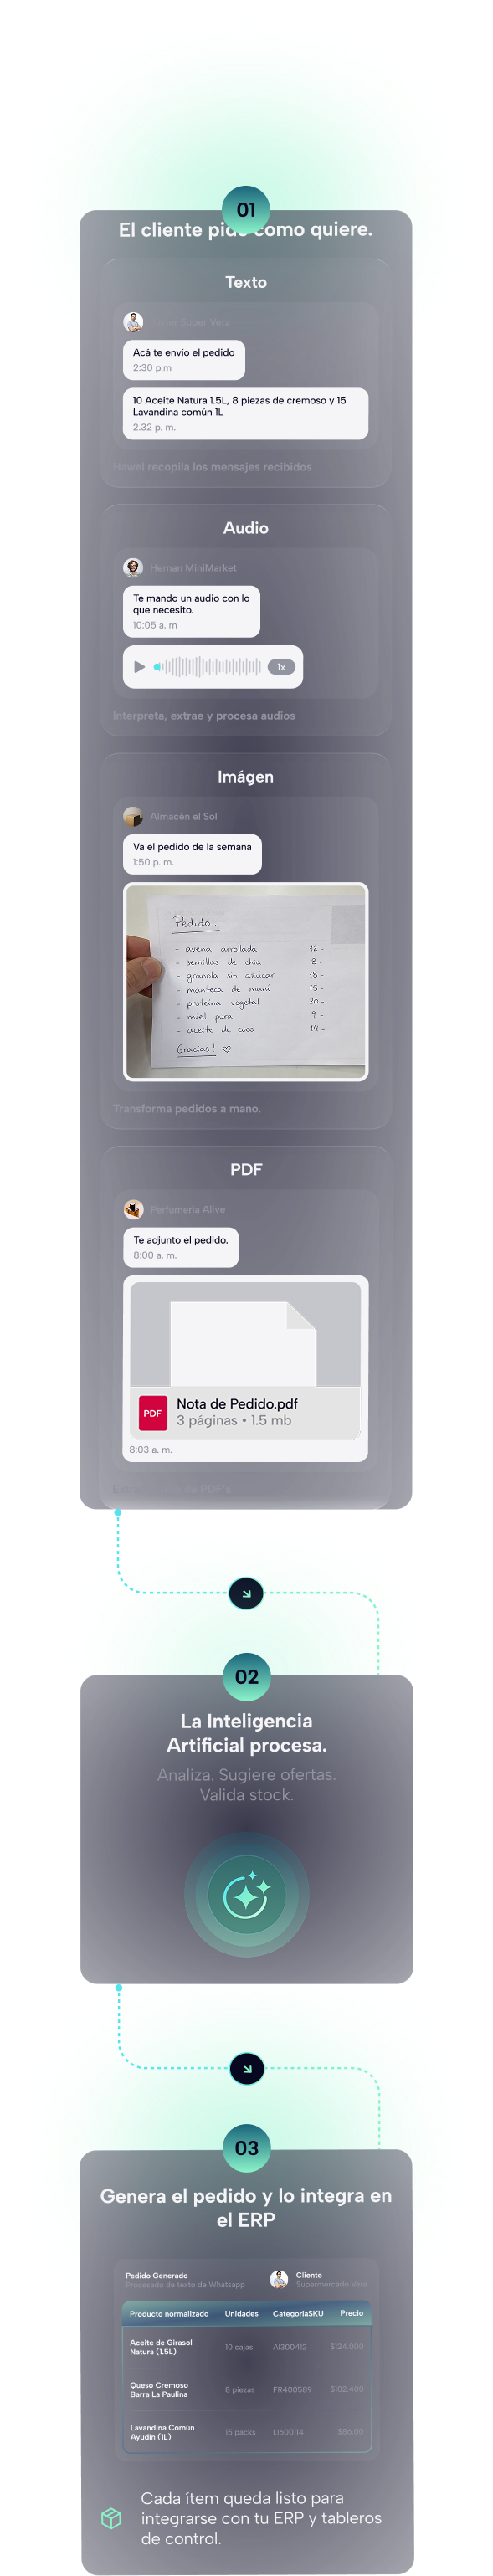
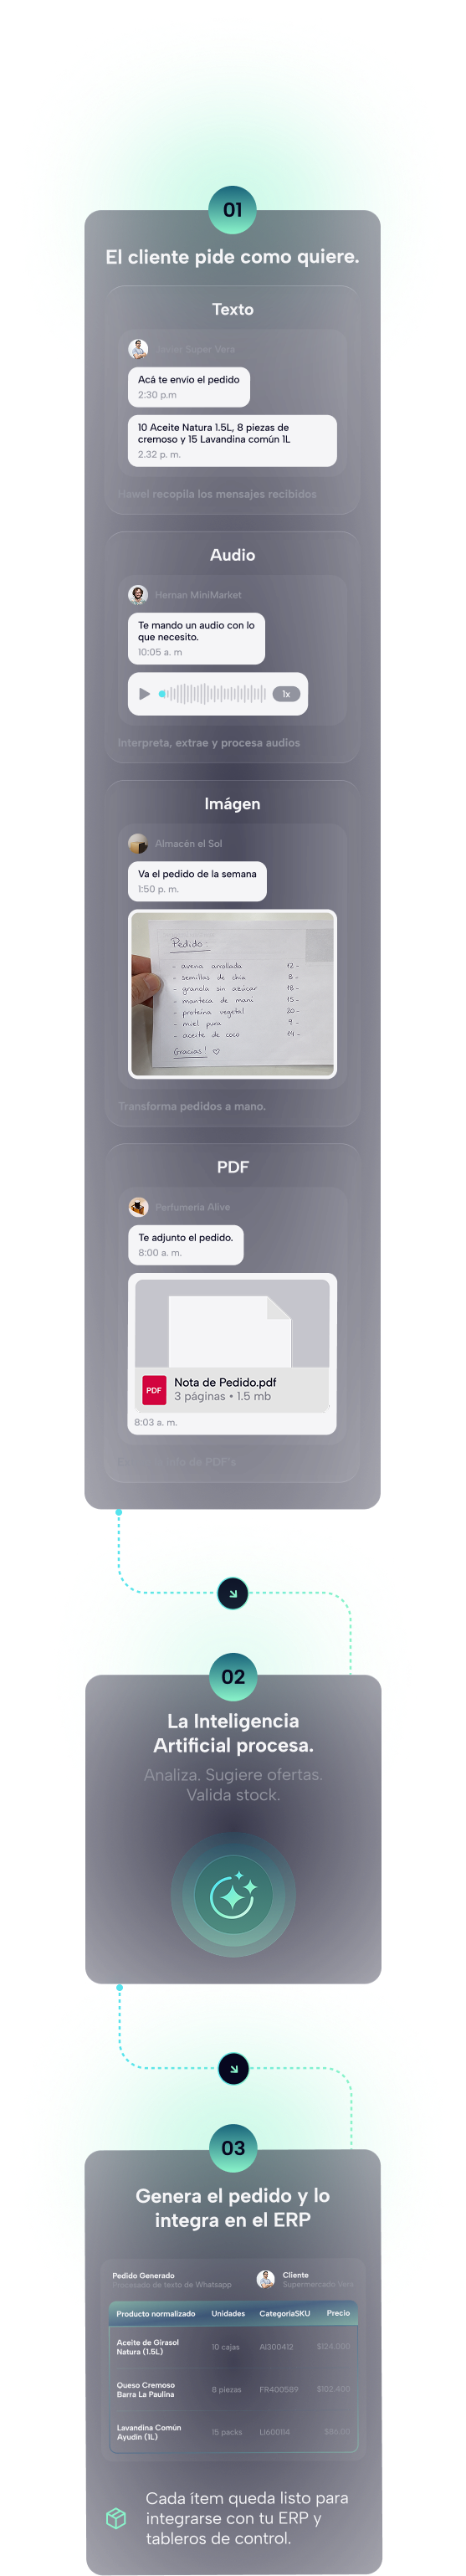
Ajustes responsive sección 1 mobile

diff --git a/sections/first-section.web.sections.tsx b/sections/first-section.web.sections.tsx
@@ -5,7 +5,7 @@ import AnimationWordHeaderWeb from "@/components/animation-word.web.components";
 const FirstSectionWeb = () => {
   return (
     <section
-      className="relative rounded-lg flex flex-col gap-0 overflow-hidden w-full mx-0 md:mx-6"
+      className="relative rounded-lg flex flex-col gap-0 overflow-hidden w-full md:px-6"
       style={{
         backgroundImage: "url('/web/header-image-background.png')",
         backgroundSize: "cover",
@@ -17,10 +17,10 @@ const FirstSectionWeb = () => {
       <div className="absolute inset-0 bg-black/40 z-0" />
 
       {/* Contenido principal */}
-      <div className="relative z-10 grid grid-cols-1 md:grid-cols-3 items-center md:px-20 pt-30 md:pt-0 text-white gap-8 md:gap-0">
+      <div className="relative z-10 grid grid-cols-1 md:grid-cols-3 items-center md:px-20 pt-[128px] md:pt-0 text-white gap-8 md:gap-0 px-[24px] md:px-0">
         {/* Columna izquierda - Texto */}
-        <div className="col-span-1 md:col-span-2 w-full h-[80%] flex flex-col items-center md:items-start justify-center gap-8">
-          <p className="text-5xl font-semibold text-center md:text-start leading-[1.2]">
+        <div className="col-span-1 md:col-span-2 w-full h-[80%] flex flex-col items-center md:items-start justify-center md:gap-8 gap-[24px]">
+          <p className="text-[48px] md:text-5xl font-semibold text-center md:text-start leading-[1.2]">
             La Inteligencia Artificial
             <br className="hidden md:block" /> {" "}
             que 
@@ -29,18 +29,18 @@ const FirstSectionWeb = () => {
             <br className="hidden md:block" />
             <AnimationWordHeaderWeb />
           </p>
-          <p className="text-2xl text-center md:text-start leading-[1.4]">
+          <p className="text-[20px] md:text-2xl text-center md:text-start leading-[1.4]">
             Incrementa tus ventas. Gestiona tus pedidos.
-            <br />
-            Ayuda a tus vendedores. Todo, por WhatsApp.
+            <br className="hidden md:block" />
+            {" "}Ayuda a tus vendedores. Todo, por WhatsApp.
           </p>
-          <button className="px-6 py-3 bg-white text-black font-semibold rounded-full hover:bg-gray-200 transition">
+          <button className="px-6 py-3 bg-white text-[20px] md:text-2xl text-black font-semibold rounded-full hover:bg-gray-200 transition">
             Conocer más
           </button>
         </div>
 
         {/* Columna derecha - iPhone */}
-        <div className="col-span-1 px-16 w-full md:h-[80%] flex items-center justify-center mx-auto md:pl-8">
+        <div className="col-span-1 px-[32px] mt-[80px] md:px-16 w-full md:h-[80%] flex items-center justify-center mx-auto md:pl-8">
           <div className="relative w-full h-full flex items-center justify-center mx-auto">
             <Image
               src="/web/iphone-contenido.png"
@@ -56,7 +56,7 @@ const FirstSectionWeb = () => {
       </div>
 
       {/* Slider de marcas - Parte inferior */}
-      <div className="relative z-10 mt-6 md:mt-0 w-full h-[120px] flex items-center justify-center bg-gradient-to-t from-black/60 to-transparent">
+      <div className="relative z-10 px-0 pb-[32px] mt-[64px] md:mt-6 md:mt-0 w-full h-[120px] flex items-center justify-center bg-gradient-to-t from-black/60 to-transparent">
         <AnimationBrandsSliderWeb />
       </div>
     </section>

diff --git a/sections/second-section.web.sections.tsx b/sections/second-section.web.sections.tsx
@@ -1,5 +1,3 @@
-import Image from "next/image";
-
 /* eslint-disable @next/next/no-img-element */
 export default function SecondSectionWeb() {
     return (
@@ -66,7 +64,7 @@ export default function SecondSectionWeb() {
                 />
             </div>
 
-            <div className="block md:hidden relative w-full min-h-[300vh]">
+            <div className="block md:hidden relative w-full min-h-[100vh]">
                 <img
                     src="/web/steps/background-step-1.png"
                     alt="Hombre en llamadas de WhatsApp con su celular"
@@ -86,19 +84,17 @@ export default function SecondSectionWeb() {
                     className="!absolute z-4"
                     style={{
                         zIndex: 4,
-                        bottom: '0%',
-                        width: '100%',
+                        bottom: '-5%',
+                        width: '75%',
                         left: '0%',
                         transform: 'translateX(-25%)'
                     }}
                 />
 
-                <Image
+                <img
                     src="/web/steps/Steps1-mobile.png"
                     alt="Pasos de cómo funciona Hawel"
-                    width={window.innerWidth} // Obtener tamaño de la pantalla actual
-                    height={0} // Obtener tamaño de la pantalla actual
-                    className="w-full h-full z-10 relative"
+                    className="relative z-10 w-full min-h-full object-cover"
                 />
             </div>
         </section>

diff --git a/components/navbar.web.components.tsx b/components/navbar.web.components.tsx
@@ -4,7 +4,7 @@ import Link from "next/link";
 
 const NavbarWeb = () => {
   return (
-    <nav className="z-50 bg-transparent fixed top-8 left-0 right-0 flex items-center justify-between h-16 px-[24px] md:px-4 md:px-20 !text-white w-full">
+    <nav className="z-50 bg-transparent fixed top-[32px] left-0 right-0 flex items-center justify-between h-16 px-[24px] md:px-4 md:px-20 !text-white w-full">
       <button className="flex-shrink-0">
         <Image
           src="/logo.png"
@@ -23,7 +23,7 @@ const NavbarWeb = () => {
         <Link href="/dashboard" className="hover:opacity-70 transition-opacity text-xs">Dashboard</Link>
       </div>
       <div className="block md:hidden flex items-center justify-end flex-1 gap-4 md:gap-8 lg:gap-12 ml-4">
-        <Menu />
+        <Menu className="w-[26px] h-[20px]" />
       </div>
     </nav>
   )